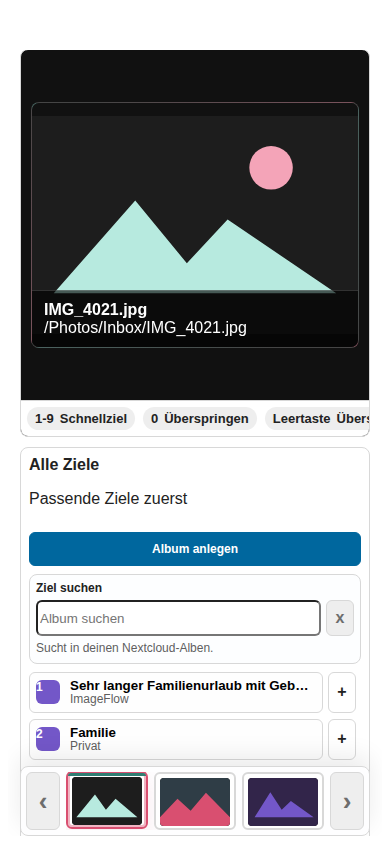
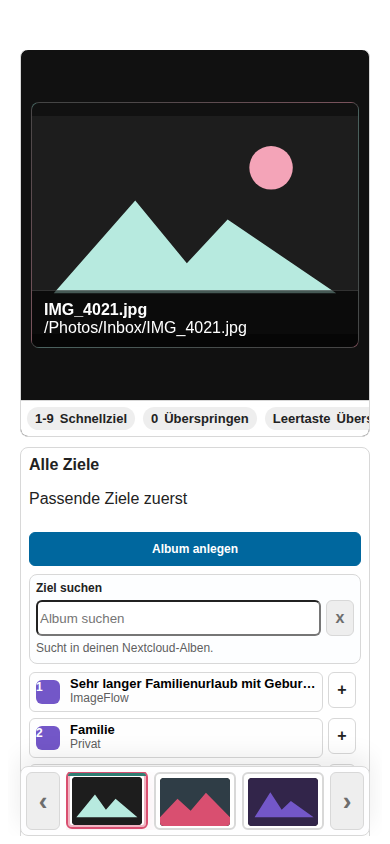
harden compact rows for nextcloud theme

Changed region(s): [[0.0923, 0.8009, 0.8, 0.9242], [0.8615, 0.8009, 0.8923, 0.8934]]

diff --git a/imageflow/css/imageflow-main.css b/imageflow/css/imageflow-main.css
@@ -893,10 +893,14 @@
 .imageflow-mini-button,
 .imageflow-mini-spacer {
   display: inline-grid;
+  box-sizing: border-box;
   place-items: center;
   width: 28px;
   min-width: 28px;
-  min-height: 36px;
+  height: 36px;
+  min-height: 36px !important;
+  max-height: 36px;
+  padding: 0;
   border-radius: 6px;
 }
 
@@ -935,16 +939,30 @@
 .imageflow-favorite,
 .imageflow-target {
   display: grid;
+  box-sizing: border-box;
   grid-template-columns: 28px minmax(0, 1fr);
   gap: 6px;
   align-items: center;
   width: 100%;
-  min-height: 36px;
-  padding: 5px 6px;
+  min-height: 36px !important;
+  padding: 5px 6px !important;
   border: 1px solid var(--color-border);
   border-radius: 6px;
   background: color-mix(in srgb, var(--color-main-background) 94%, var(--color-background-darker));
+  font-size: 13px;
   text-align: left;
+}
+
+.imageflow-favorite {
+  height: 36px;
+  max-height: 36px;
+}
+
+.imageflow-target {
+  height: 40px;
+  min-height: 40px !important;
+  max-height: 40px;
+  padding-block: 4px !important;
 }
 
 .imageflow-favorite:hover,
